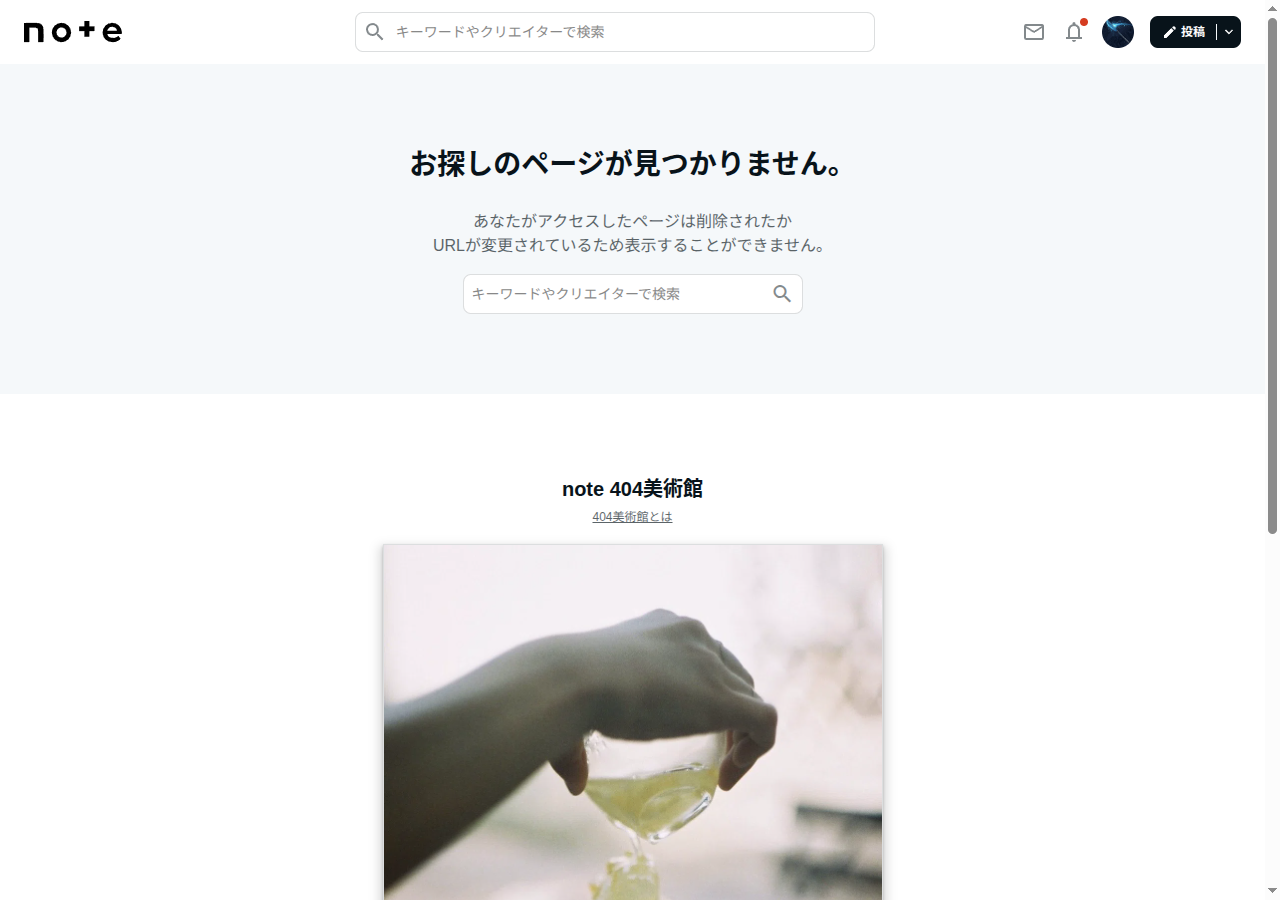
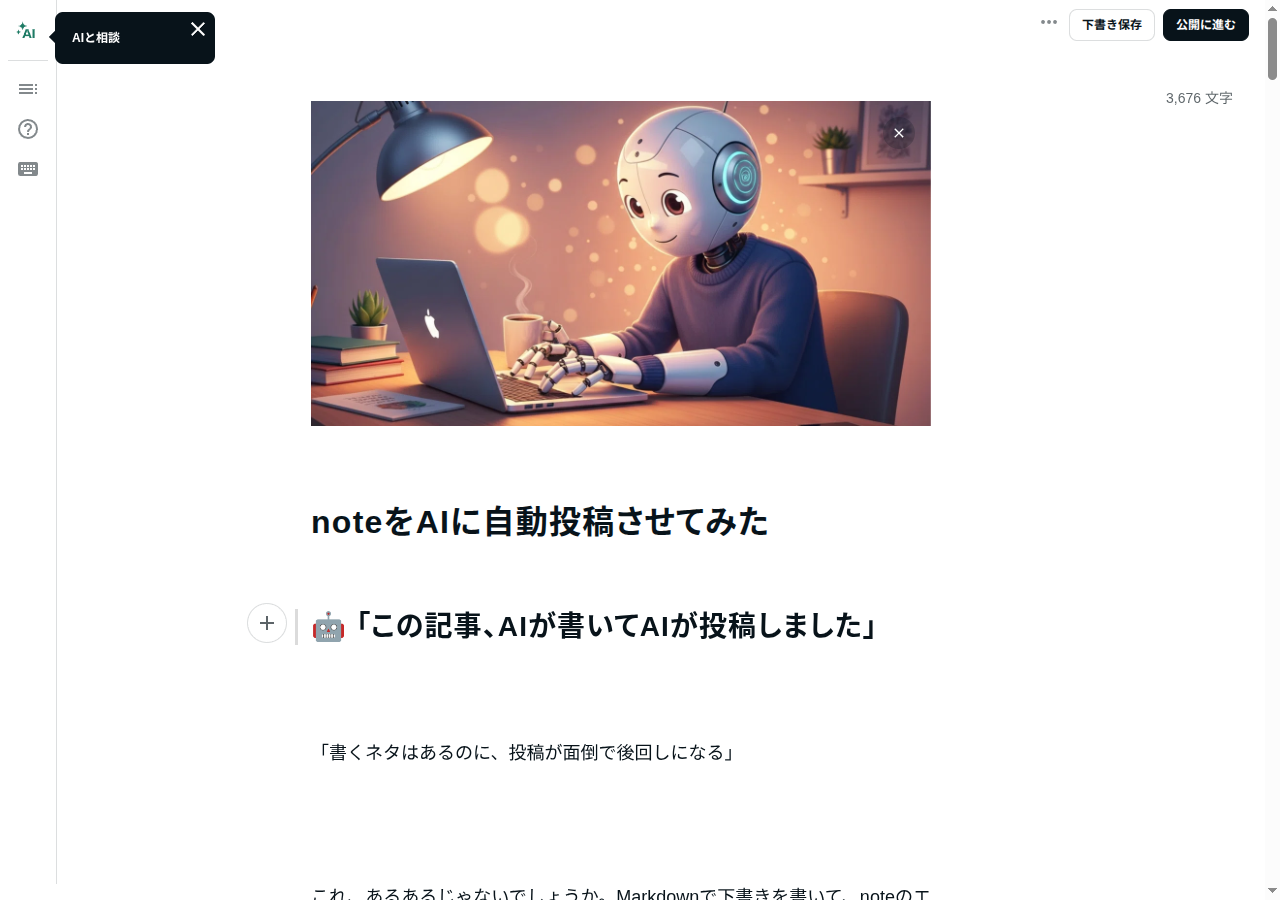
feat(cmd_219): regen all images with gemini-3.1-flash-image-preview (JP text + cover + screenshot fix)
- workflow/challenges: Japanese text labels (文書作成/AI自動化/note投稿, エラー)
- robot_writer.png: cover image regenerated with Nano Banana 2
- screenshot: logged-in editor (editor.note.com)
- note-edit.js: add cover image delete-before-replace logic

diff --git a/scripts/note-edit.js b/scripts/note-edit.js
@@ -975,6 +975,17 @@ async function setCoverImage(page, imagePath) {
   await page.evaluate(() => window.scrollTo(0, 0));
   await page.waitForTimeout(1000);
 
+  // 既存のカバー画像がある場合は削除ボタン（aria-label="削除"）をクリック
+  const existingCover = await page.$('div[data-dragging] button[aria-label="削除"]');
+  if (existingCover) {
+    const bbox = await existingCover.boundingBox();
+    if (bbox && bbox.y < 500) {
+      console.log('[cover] 既存カバー画像を削除します');
+      await existingCover.click();
+      await page.waitForTimeout(1500);
+    }
+  }
+
   // エディタ上部のカバー画像設定エリアをクリック
   // ページ上部(y<200)にある「画像を追加」ボタンがカバー画像ボタン
   await page.waitForSelector('button[aria-label="画像を追加"]', { timeout: 10000 });
